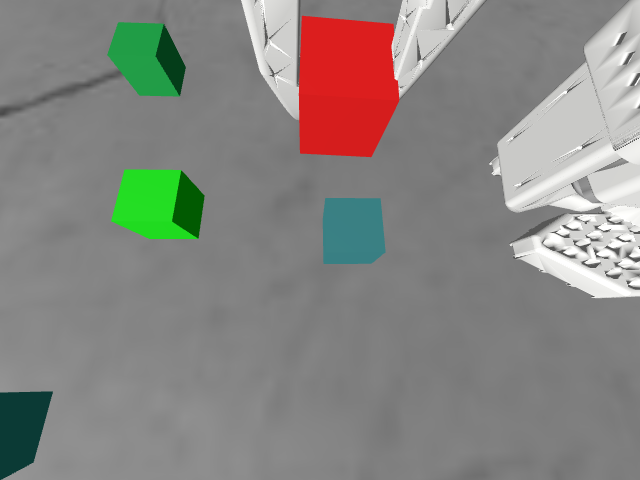
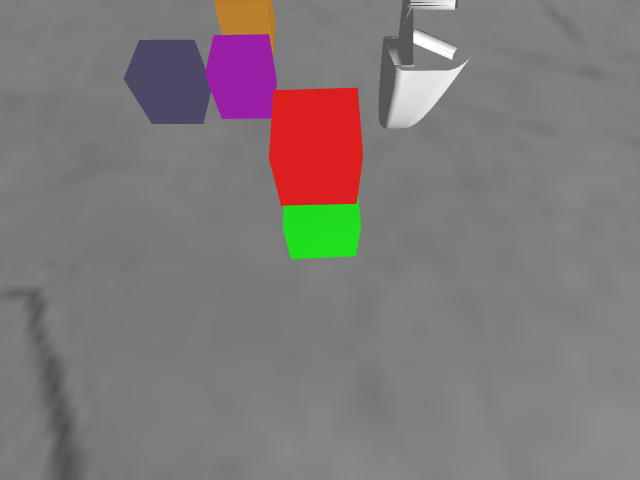
fix camera

diff --git a/examples/so_101/collect_task2.py b/examples/so_101/collect_task2.py
@@ -17,13 +17,14 @@ env = gym.make(
 env = env.unwrapped
 
 #     return path
-def expert_policy_v2(robot, obs, stage):
+def expert_policy_v22(robot, obs, stage):
     """
     Expert policy with extra XY correction before release and retreat.
     """
     eef = robot.get_link("gripper")
     quat = torch.tensor([1, 0, 0, 0], dtype=torch.float32, device=gs.device)
-
+    
+    
     cube1_pos = obs["environment_state"][:3]
     cube2_pos = obs["environment_state"][11:14]
 
@@ -77,6 +78,116 @@ def expert_policy_v2(robot, obs, stage):
         target_pos = torch.cat([target_xy, torch.tensor([target_z], device=gs.device)])
         grip_val = grip_open
 
+
+    else:
+        raise ValueError(f"Unknown stage: {stage}")
+
+    # --- Waypoint interpolation ---
+    current_pos = eef.get_pos()
+    cart_wps = [(1 - alpha) * current_pos + alpha * target_pos for alpha in torch.linspace(0, 1, 8)]
+
+    init_q = robot.get_qpos()
+    q_wps = [robot.inverse_kinematics(link=eef, pos=wp, quat=quat, init_qpos=init_q) for wp in cart_wps]
+
+    path = []
+    for i in range(len(q_wps) - 1):
+        for t in range(10):  # 10 steps between each pair
+            alpha = t / 9
+            q = (1 - alpha) * q_wps[i] + alpha * q_wps[i + 1]
+            path.append(q.clone())
+
+    # --- Gripper interpolation ---
+    if stage == "grasp":
+        for i in range(len(path) - 5):
+            path[i][-1] = grip_open
+        for i in range(len(path) - 5, len(path)):
+            alpha = (i - (len(path) - 5)) / 5
+            path[i][-1] = (1 - alpha) * grip_open + alpha * grip_closed
+    else:
+        for i in range(len(path)):
+            path[i][-1] = grip_val
+
+    return path
+
+def expert_policy_v2(robot, obs, stage):
+    """
+    Expert policy with extra XY correction before release and retreat.
+    """
+    eef = robot.get_link("gripper")
+    quat = torch.tensor([1, 0, 0, 0], dtype=torch.float32, device=gs.device)
+    
+    from scipy.spatial.transform import Rotation as R
+    r = R.from_euler('x', -90, degrees=True)
+    quat = torch.tensor(r.as_quat(), dtype=torch.float32)  
+
+    cube1_pos = obs["environment_state"][:3]
+    cube2_pos = obs["environment_state"][11:14]
+
+    grip_open = 0.5
+    grip_closed = 0.1
+    z_offset = 0.18
+    correction_xy = torch.tensor([-0.005, 0.02], device=gs.device)
+    # Compensate for gripper's site offset in Z
+    gripper_offset_z = -0.0981  # from <site name="gripper" ... pos="..." />
+
+    # Correction to align center of gripper with cube2
+    gripper_xy_correction = torch.tensor([-0.005, 0.02], device=gs.device)
+
+
+    if stage == "hover":
+        target_pos = cube1_pos + torch.tensor([0.01, 0.02, 0.25], device=gs.device)
+        grip_val = grip_open
+    elif stage == "wake":
+        current_pos = eef.get_pos()
+        target_pos = current_pos + torch.tensor([0.0, 0.0, 0.25], device=gs.device)
+        grip_val = grip_open
+    elif stage == "grasp":
+        target_pos = cube1_pos + torch.tensor([0.02, 0.02, 0.045], device=gs.device)
+        grip_val = grip_closed
+
+    elif stage == "lift":
+        target_pos = cube1_pos + torch.tensor([0.0, 0.0, 0.28], device=gs.device)
+        grip_val = grip_closed
+
+    elif stage == "place":
+        target_pos = cube2_pos + torch.tensor([0.006, 0.0, z_offset], device=gs.device)
+        grip_val = grip_closed
+
+    elif stage == "position_align":
+        target_xy = cube2_pos[:2] + gripper_xy_correction
+        target_z = cube2_pos[2] + z_offset - gripper_offset_z
+        target_pos = torch.cat([target_xy, torch.tensor([target_z], device=gs.device)])
+        grip_val = grip_closed
+
+
+    elif stage == "release":
+        target_xy = cube2_pos[:2]  # stay centered
+        target_z = cube2_pos[2] + z_offset - gripper_offset_z  # correct for site offset
+        target_pos = torch.cat([target_xy, torch.tensor([target_z], device=gs.device)])
+        grip_val = grip_open
+
+
+    elif stage == "retreat":
+        target_xy = cube2_pos[:2] + correction_xy
+        target_z = cube2_pos[2] + 0.40 - gripper_offset_z  # lift up but compensate for site offset
+        target_pos = torch.cat([target_xy, torch.tensor([target_z], device=gs.device)])
+        grip_val = grip_open
+
+    elif stage == "go_back":
+        # Return to initial position
+        target_pos = eef.get_pos()  # We still need a dummy pos for IK
+        grip_val = grip_open
+        qpos_tensor = torch.deg2rad(torch.tensor([0, -177, 165, 72, -83, 0], dtype=torch.float32, device=gs.device))
+        q_wps = [robot.get_qpos(), qpos_tensor]
+
+        path = []
+        for i in range(len(q_wps) - 1):
+            for t in range(10):  # Interpolate in joint space directly
+                alpha = t / 9
+                q = (1 - alpha) * q_wps[i] + alpha * q_wps[i + 1]
+                q[-1] = grip_val
+                path.append(q.clone())
+        return path
 
     else:
         raise ValueError(f"Unknown stage: {stage}")
@@ -162,7 +273,7 @@ lerobot_dataset = LeRobotDataset.create(
     },
 )
 # no more "wake", 
-stages = ["hover", "grasp", "lift", "place", "release"]
+stages = ["hover", "grasp", "lift", "place", "release", "go_back"]
 # stages = ["hover", "grasp", "lift", "place", "release"]
 # === run Episodes ===
 for ep in range(10):
@@ -181,9 +292,11 @@ for ep in range(10):
             # all_states.append((obs["agent_pos"] * rad2deg).detach().cpu().numpy())
             pos_deg = (obs["agent_pos"] * rad2deg).detach().cpu().numpy()
             pos_deg[1] *= -1  # flip joint 2
+            pos_deg[4] *= -1  # flip joint 2
             all_states.append(pos_deg)
             act_deg = (action * rad2deg).detach().cpu().numpy()
             act_deg[1] *= -1
+            act_deg[4] *= -1
             all_actions.append(act_deg)
             # all_actions.append((action * rad2deg).detach().cpu().numpy())
             all_rewards.append(reward)

diff --git a/gym_genesis/tasks/so101/cube_stack.py b/gym_genesis/tasks/so101/cube_stack.py
@@ -9,8 +9,8 @@ joints_name = (
     "main_shoulder_pan",
     "main_shoulder_lift",
     "main_elbow_flex",
-    "main_wrist_roll",
     "main_wrist_flex",
+    "main_wrist_roll",
     "main_gripper"
 )
 AGENT_DIM = len(joints_name)
@@ -98,7 +98,7 @@ class CubeStackOne:
         # === Reset robot to home pose ===
         # qpos = np.array([0, 0, 0, 0, 0, 0]) 
         # qpos_tensor = torch.deg2rad(torch.tensor([0, 0, 0, 0, 0, 0], dtype=torch.float32, device=gs.device))
-        qpos_tensor = torch.deg2rad(torch.tensor([0, -177, 165, 50, 83, 0], dtype=torch.float32, device=gs.device))
+        qpos_tensor = torch.deg2rad(torch.tensor([0, -177, 165, 72, -83, 0], dtype=torch.float32, device=gs.device))
         self.so_101.set_qpos(qpos_tensor, zero_velocity=True)
         self.so_101.control_dofs_position(qpos_tensor[:5], self.motors_dof)
         self.so_101.control_dofs_position(qpos_tensor[5:], self.fingers_dof)
@@ -164,7 +164,7 @@ class CubeStackOne:
                 del obs["environment_state"]
             # --- top camera ---
             self.cam_top.set_pose(
-                pos=np.array([-0.0, 0.0, 1.5]),
+                pos=np.array([-0.05, 0.0, 1.8]),
                 lookat=np.array([-0.2, 0.0, 0.5])
             )
             top_img = self.cam_top.render()[0]
@@ -179,12 +179,12 @@ class CubeStackOne:
             wrist_pos = wrist_link.get_pos()
             wrist_quat = wrist_link.get_quat().cpu().numpy()
             wrist_rot = R.from_quat(wrist_quat, scalar_first=True)
-            few_radians = 0.3
-            # camera_rot = R.from_rotvec([few_radians, 0, 0]) * wrist_rot
-            # camera_rot = R.from_rotvec([0, 0, np.pi])*R.from_rotvec([-few_radians, 0, 0]) * wrist_rot
+            few_radians = 0.1
             camera_rot = R.from_rotvec([-few_radians, 0, 0]) * wrist_rot
+            camera_rot = wrist_rot * R.from_euler("x", -np.pi / 2 + 0.8)
+
             
-            camera_pos = wrist_pos.cpu().numpy() + np.array([0.015, 0.1, -0.035])
+            camera_pos = wrist_pos.cpu().numpy() + np.array([0.09, 0.0, -0.08])
             camera_transform = np.eye(4)
             camera_transform[:3, :3] = camera_rot.as_matrix()
             camera_transform[:3, 3] = camera_pos

diff --git a/gym_genesis/tasks/utils.py b/gym_genesis/tasks/utils.py
@@ -688,12 +688,12 @@ def build_house_task1(self):
             res=(640, 480),
             pos=(0.4, 0.0, 0.7), # mimic wrist pos?
             lookat=(0, 0, 1),
-            fov=90,
+            fov=70,
             GUI=False,
         )
         # add znear
-        self.cam_wrist.znear = 0.001
-        self.cam_wrist.zfar=0.3
+        # self.cam_wrist.znear = 0.01
+        # self.cam_wrist.zfar=10
 
 
     # cam = None
